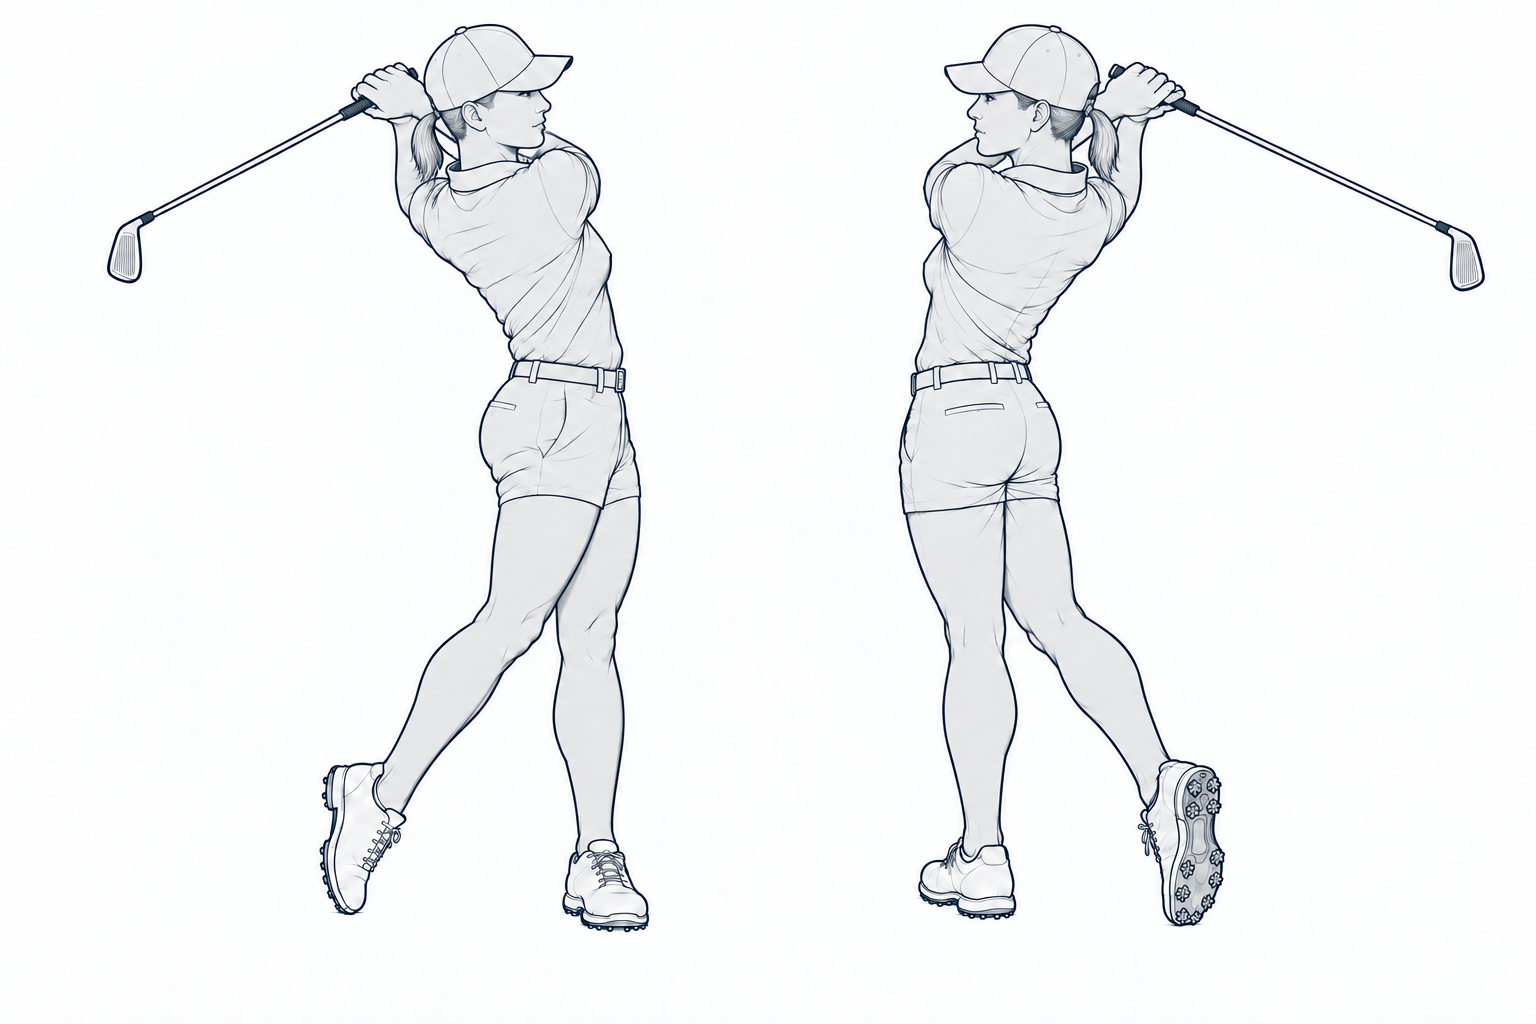
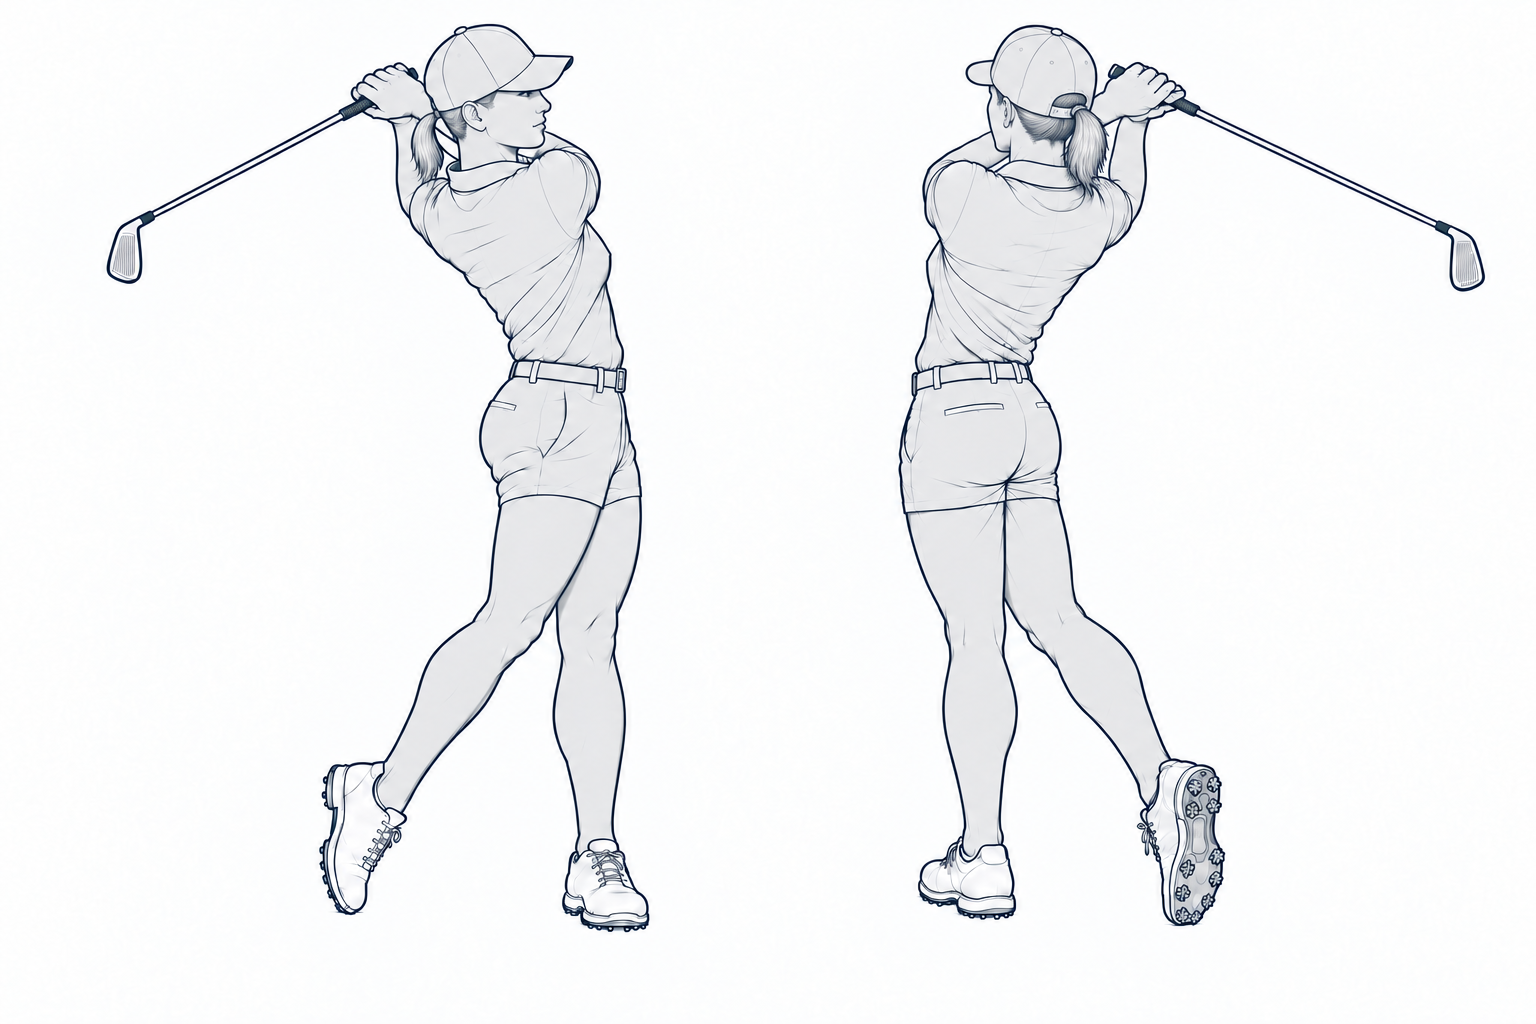
Fix sport pose atlas clipping and golf rear follow-through

diff --git a/docs/開発ログ.md b/docs/開発ログ.md
@@ -176,3 +176,10 @@
 - キーワード＋部位＋目的＋動作／ドリルのAND検索。教材選択は次の行。推奨欄は教材情報／根拠／説明と右側操作の3段構成。下書き保存は選手非表示、選手に公開は測定公開後に表示。
 - 競技・利き手をプルダウン化。正面・背面・右側面・左側面の4図、モバイル2列。側面は解剖学的左右の評価を保持し肩と背中を分離。読み込み表示は「読み込み中」。
 - 確認：既存79テスト＋追加5テスト成功、採点・人体図同期チェック、Next本番ビルド成功。ローカルスタッフ画面で分類取得・キーワードと部位の絞り込み・PC/390px幅を確認。
+
+
+## 2026-10-18 姿勢画像の端の映り込み修正
+- ゴルフの前後を画像専用のSVGクリップで分離。左右反転と評価マークは維持。
+- 全10競技（ゴルフ以外）の男女・3場面・前後を点検し、道具が区切りを越える部分を含む場面別クリップを追加。
+- ゴルフ男女フォロー背面を画像生成で修正し、首・肩・腕を自然な背面表現に調整。
+- ローカル一覧で全11表示種別×男女×3場面×前後×左右の264表示を目視確認。競技技術の厳密な監修とは区別する。
